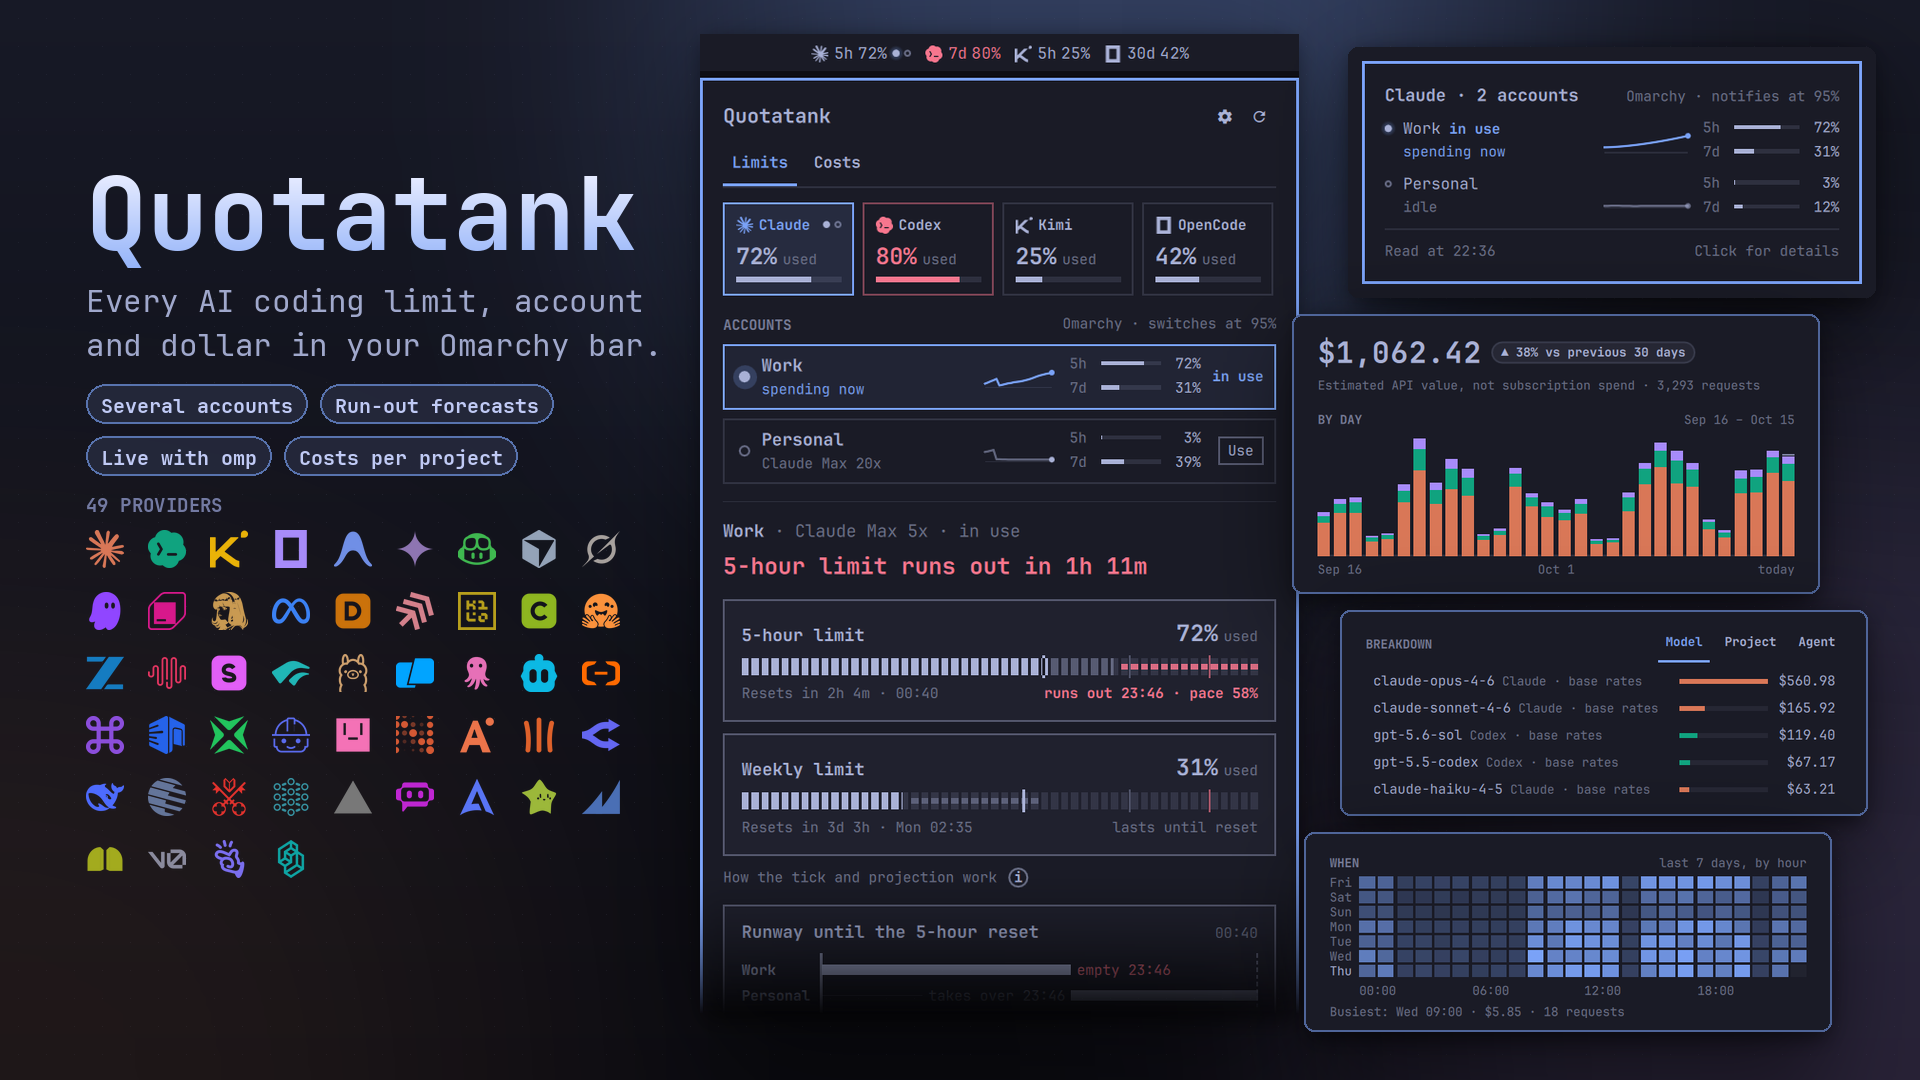
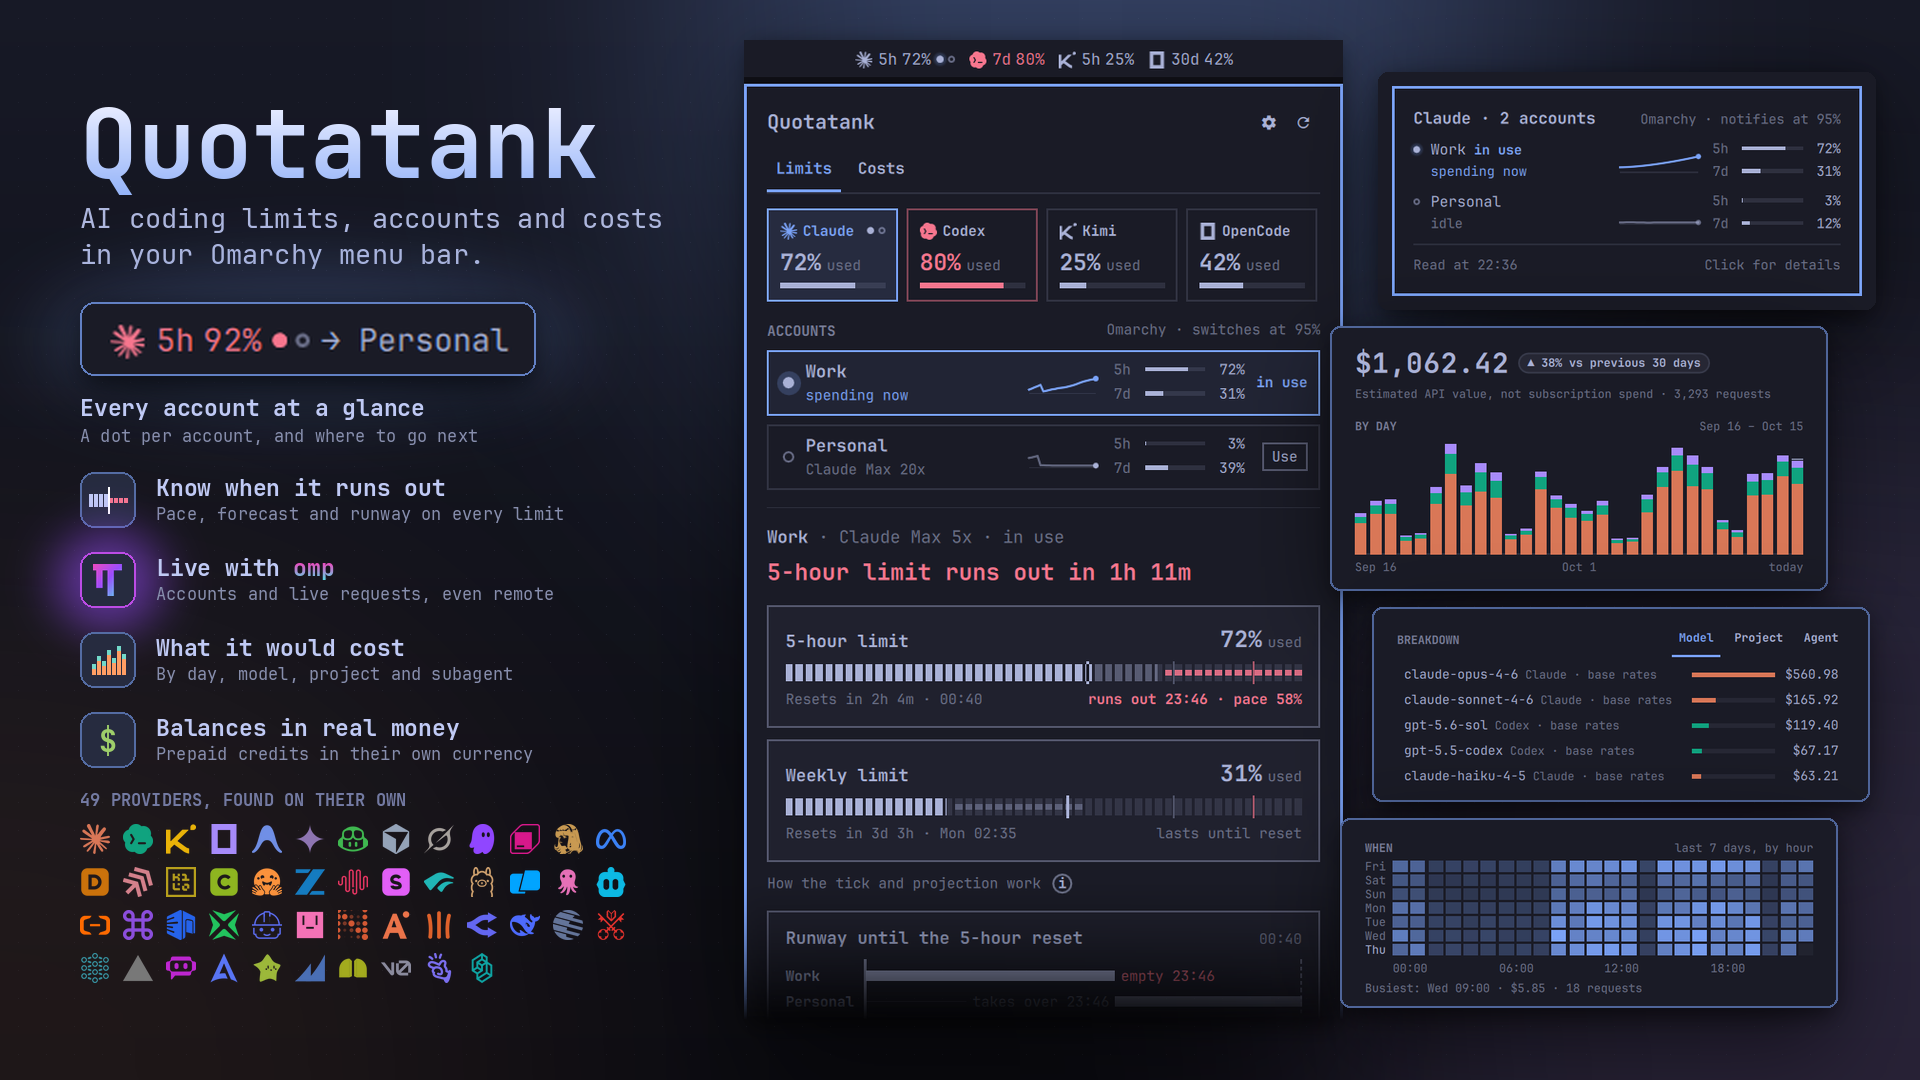
Marketplace preview leads with the differentiating features and omp

Changed region(s): [[0.3438, 0.0306, 0.9688, 0.9472], [0.0, 0.0917, 0.3438, 0.9167]]

diff --git a/THIRD_PARTY_NOTICES.md b/THIRD_PARTY_NOTICES.md
@@ -104,6 +104,7 @@ The marks in `assets/<provider>.svg`, `assets/<provider>-bar.svg`, and `assets/<
 - Each provider's own site artwork, reduced to the 24-unit frame: DevPass (`devpass.llmgateway.io`), Neuralwatt (`neuralwatt.com`), Sofya (`sofya.co`), ClawRouter, and Aixy (`aixy-gateway.com`). xKiro (`xkiro.com`) and Charm Hyper (`hyper.charm.land`) publish raster logos only, so their marks are traced from them; Umans is redrawn from its 16-pixel favicon.
 - Droid, Codebuff, and Synthetic are self-drawn monograms (a rounded square with a letter) and use no third-party artwork.
 - Codex is redistributed from `basecamp/omarchy` as noted above.
+- The omp (Oh My Pi) mark in the marketplace preview (`preview.png`) is the gradient mark from omp.sh's `favicon.svg`, published with [can1357/oh-my-pi](https://github.com/can1357/oh-my-pi) under the MIT licence, shown without its background square.
 
 Simple Icons is released under CC0 1.0; the Lobe Icons MIT licence follows:
 
@@ -129,4 +130,4 @@ Simple Icons is released under CC0 1.0; the Lobe Icons MIT licence follows:
 > OUT OF OR IN CONNECTION WITH THE SOFTWARE OR THE USE OR OTHER DEALINGS IN THE
 > SOFTWARE.
 
-Claude, Anthropic, OpenAI, Codex, Kimi, Moonshot AI, Antigravity, Gemini, GitHub Copilot, Cursor, Grok, Kiro, JetBrains, Droid, Amp, Kilo Code, Codebuff, Hugging Face, Z.ai, MiniMax, Synthetic, Chutes, Ollama, Warp, ZenMux, Cline, Venice, DeepInfra, Vercel, Poe, OpenCode, OpenRouter, DeepSeek, Nous Research, Meta, Muse Code, Alibaba Cloud, Command Code, DevPass, LLM Gateway, xKiro, IBM, Bob, Umans, Neuralwatt, Aixy, ClawRouter, Atlas Cloud, Charm, Hyper, Sail Research, Sofya, v0, Manus, and TypeSafe names and marks are the property of their respective owners. Their inclusion identifies compatible services and does not imply affiliation or endorsement.
+Claude, Anthropic, OpenAI, Codex, Kimi, Moonshot AI, Antigravity, Gemini, GitHub Copilot, Cursor, Grok, Kiro, JetBrains, Droid, Amp, Kilo Code, Codebuff, Hugging Face, Z.ai, MiniMax, Synthetic, Chutes, Ollama, Warp, ZenMux, Cline, Venice, DeepInfra, Vercel, Poe, OpenCode, OpenRouter, DeepSeek, Nous Research, Meta, Muse Code, Alibaba Cloud, Command Code, DevPass, LLM Gateway, xKiro, IBM, Bob, Umans, Neuralwatt, Aixy, ClawRouter, Atlas Cloud, Charm, Hyper, Sail Research, Sofya, v0, Manus, TypeSafe, and omp (Oh My Pi) names and marks are the property of their respective owners. Their inclusion identifies compatible services and does not imply affiliation or endorsement.
